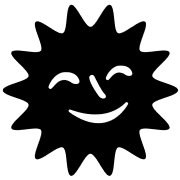
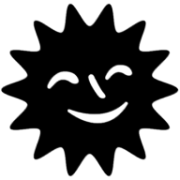
reset size to 500 as 300 is to low

diff --git a/src/components/common/WidgetPodcast.vue b/src/components/common/WidgetPodcast.vue
@@ -87,7 +87,7 @@ export default {
         } else {
             this.podImg = this.pod.artwork_url;
         }
-        this.podImg = this.podImg.replace("-large", "-t300x300");
+        this.podImg = this.podImg.replace("-large", "-t500x500");
         this.podImg = this.podImg.replace(".png", ".webp").replace(".jpg", ".webp");
         this.pod.podImg = this.podImg;
         this.date = new Date(this.pod.display_date).toLocaleDateString("fr-FR").replace(/\        this.pod.title = this.pod.title.replace(/(- )?(~ )?\(?(\d\d\.?){2}(\d\d){0,2}\)?$/, '').replace(/(- )?(~ )?\(?\d\d\/\d\d\/?(\d\d){0,2}\)?$/, '');
